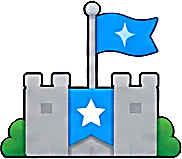
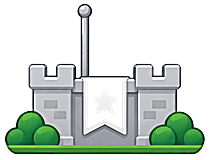
New bank and checkpoint art; tint layers for property art
Property images can now come with a <name>-tint.png layer of grey parts that
are colorized in the owner's color (near-whites stay white) and drawn over
the image; images without one keep the blue-recolor path. The checkpoint
uses a tint layer for its flag and banner, and the bank square draws the
new bank image (gold coin until images load).

Claude-Session: https://claude.ai/code/session_01EuN63CBabUhHG8UqQFvBhT

diff --git a/apps/client/src/props.ts b/apps/client/src/props.ts
@@ -1,6 +1,9 @@
 /**
- * Property art: shops, 3-Star Shops and plot buildings as images (assets/props). Their blue parts
- * (windows, doors, awnings, signs) are recolored: grey when unowned, the owner's color when owned.
+ * Property art: shops, 3-Star Shops, plot buildings and the bank as images (assets/props). The
+ * parts in the owner's color (grey when unowned) come from one of two places:
+ * - a tint layer, `<name>-tint.png`: the same size as the image, holding only the parts to color,
+ *   painted in grey. Each grey is colorized (its lightness kept) and drawn over the image;
+ * - otherwise the image's own blue parts (windows, doors, awnings, signs) are recolored.
  * Call `loadProps()` once before drawing; until then callers fall back to the vector art.
  */
 
@@ -12,7 +15,8 @@ export type PropKey =
   | 'balloon'
   | 'tax'
   | 'home'
-  | 'agency';
+  | 'agency'
+  | 'bank';
 
 const urls = import.meta.glob<string>('./assets/props/*.png', {
   eager: true,
@@ -26,6 +30,8 @@ interface Source {
   blue: Uint8Array;
 }
 const sources = new Map<string, Source>();
+/** Tint layers by image name (see the top of the file). */
+const tintLayers = new Map<string, ImageData>();
 let loading: Promise<void> | null = null;
 
 /** Load every property image (safe to call more than once). */
@@ -42,6 +48,10 @@ export function loadProps(): Promise<void> {
       const ctx = cv.getContext('2d', { willReadFrequently: true })!;
       ctx.drawImage(img, 0, 0);
       const data = ctx.getImageData(0, 0, cv.width, cv.height);
+      if (key.endsWith('-tint')) {
+        tintLayers.set(key.slice(0, -5), data);
+        return;
+      }
       const px = data.data;
       const blue = new Uint8Array(cv.width * cv.height);
       for (let i = 0; i < blue.length; i++) {
@@ -84,6 +94,8 @@ function hslToRgb(h: number, s: number, l: number): [number, number, number] {
 
 /** The lightness of the art's own blue, so recolored parts keep their shading. */
 const BLUE_L = 0.55;
+/** The middle grey of a tint layer: it becomes exactly the player's color. */
+const TINT_L = 0.5;
 const tinted = new Map<string, HTMLCanvasElement>();
 
 /** A property image with its blue parts in `color` (cached per color). */
@@ -97,13 +109,32 @@ export function propCanvas(key: PropKey, color: string): HTMLCanvasElement | nul
   const [th, ts, tl] = rgbToHsl((n >> 16) & 255, (n >> 8) & 255, n & 255);
   const out = new ImageData(new Uint8ClampedArray(src.data.data), src.data.width, src.data.height);
   const px = out.data;
-  for (let i = 0; i < src.blue.length; i++) {
-    if (!src.blue[i]) continue;
-    const [, , l] = rgbToHsl(px[i * 4], px[i * 4 + 1], px[i * 4 + 2]);
-    const [r, g, b] = hslToRgb(th, ts, Math.max(0, Math.min(1, l - BLUE_L + tl)));
-    px[i * 4] = r;
-    px[i * 4 + 1] = g;
-    px[i * 4 + 2] = b;
+  const layer = tintLayers.get(key);
+  if (layer) {
+    // Colorize the grey layer and draw it over the image.
+    const tp = layer.data;
+    for (let i = 0; i < tp.length; i += 4) {
+      const a = tp[i + 3] / 255;
+      if (!a) continue;
+      const [, , l] = rgbToHsl(tp[i], tp[i + 1], tp[i + 2]);
+      const c = hslToRgb(th, ts, Math.max(0, Math.min(1, l - TINT_L + tl)));
+      // Near-white details (stars, highlights) stay white.
+      const keep = Math.max(0, Math.min(1, (l - 0.8) / 0.15));
+      for (let k = 0; k < 3; k++) c[k] += (tp[i + k] - c[k]) * keep;
+      const under = px[i + 3] / 255;
+      const outA = a + under * (1 - a);
+      for (let k = 0; k < 3; k++) px[i + k] = (c[k] * a + px[i + k] * under * (1 - a)) / outA;
+      px[i + 3] = outA * 255;
+    }
+  } else {
+    for (let i = 0; i < src.blue.length; i++) {
+      if (!src.blue[i]) continue;
+      const [, , l] = rgbToHsl(px[i * 4], px[i * 4 + 1], px[i * 4 + 2]);
+      const [r, g, b] = hslToRgb(th, ts, Math.max(0, Math.min(1, l - BLUE_L + tl)));
+      px[i * 4] = r;
+      px[i * 4 + 1] = g;
+      px[i * 4 + 2] = b;
+    }
   }
   const cv = document.createElement('canvas');
   cv.width = out.width;

diff --git a/apps/client/src/board.ts b/apps/client/src/board.ts
@@ -1701,6 +1701,8 @@ function specialIcon(ctx: CanvasRenderingContext2D, G: GameState, sq: Square, x:
   ctx.textBaseline = 'middle';
   switch (sq.t) {
     case 'bank':
+      // The painted bank (it has no player color); the gold coin until the images load.
+      if (drawProp(ctx, 'bank', '#9aa3b8', x, y - 4, 78, 54)) break;
       ctx.fillStyle = '#c98a12';
       ctx.beginPath();
       ctx.arc(x, y, 26, 0, Math.PI * 2);

diff --git a/apps/client/src/changelog.ts b/apps/client/src/changelog.ts
@@ -47,6 +47,7 @@ export const CHANGELOG: ChangelogEntry[] = [
       },
     ],
     extras: [
+      'New art for the bank and the checkpoint (its flag and banner take the owner’s color)',
       'Player colors are now red, blue, green and purple (orange for a fifth player); yellow is gone',
       'Action bar grows a little when a question has more to show',
       'Stock screen: summary on the left, shares on the right',

diff --git a/apps/client/src/ui/lab.ts b/apps/client/src/ui/lab.ts
@@ -94,6 +94,7 @@ const RECENT = new Set([
   'Buyout (5x)',
   'Buy prompt',
   'Zoom out',
+  'Design gallery',
 ]);
 
 /** A sample match; `playSample` then plays a few rounds so cards, the board and the log have content. */

diff --git a/CLAUDE.md b/CLAUDE.md
@@ -34,6 +34,9 @@ A Fortune Street-style board game for the browser. Spec: `docs/spec.md`.
   `packages/engine/src/boards/format.ts`; `newGame({ board })` plays on any valid board.
   Boards use a `square` or `hex` grid (`BoardDef.layout`; hex = pointy-top, odd rows shifted
   right). Cell positions and tile outlines for both live in `apps/client/src/geometry.ts`.
+- Property art lives in `apps/client/src/assets/props/` (loaded by `props.ts`). An optional
+  `<name>-tint.png` (same size, grey) holds the parts drawn in the owner's color; without one,
+  the image's blue parts are recolored.
 - Dev/test builds show a build badge in the bottom-right corner (on menus and the UI Lab, not during a game); tapping it 5 times opens the dev
   menu. The UI Lab (`#ui-lab`, code in `apps/client/src/ui/lab.ts`) shows every UI element with
   controls to trigger it. When adding a new UI element, add a control for it to the UI Lab.
